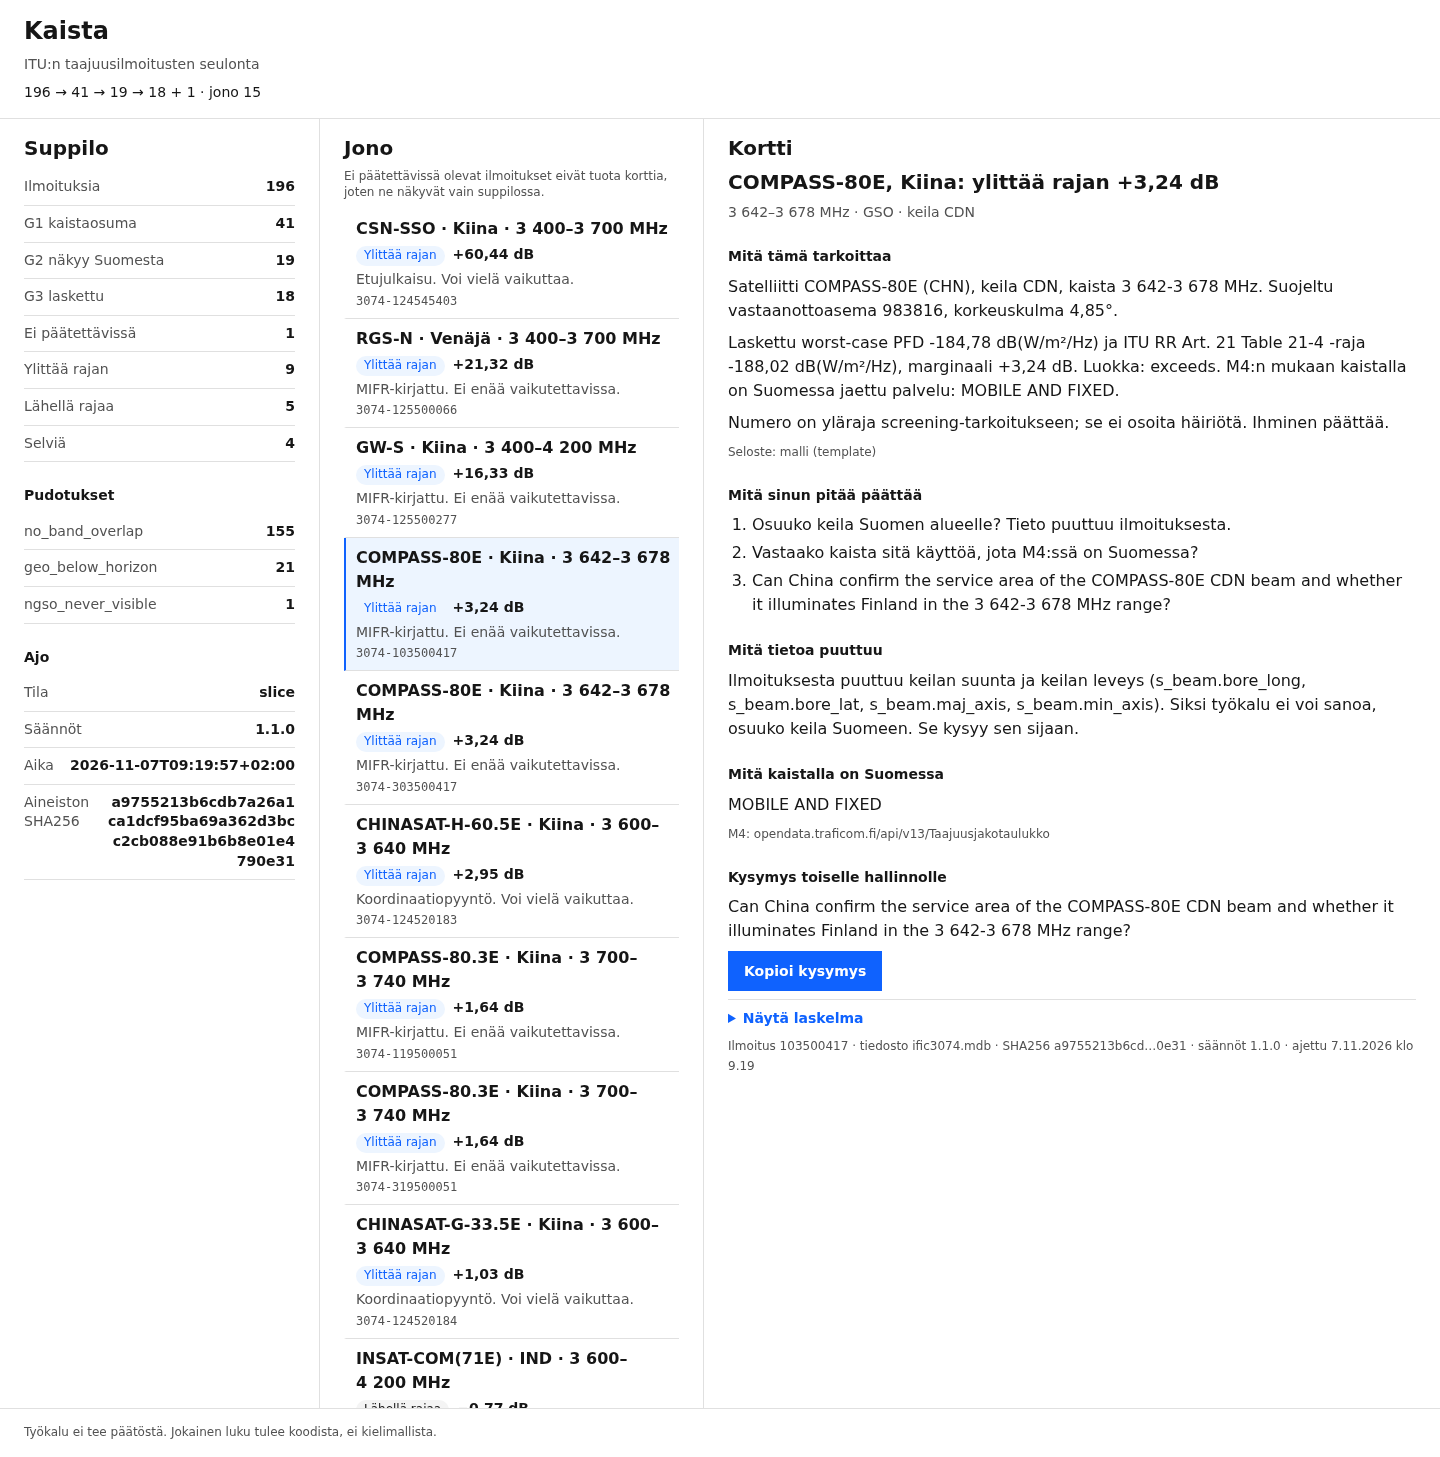
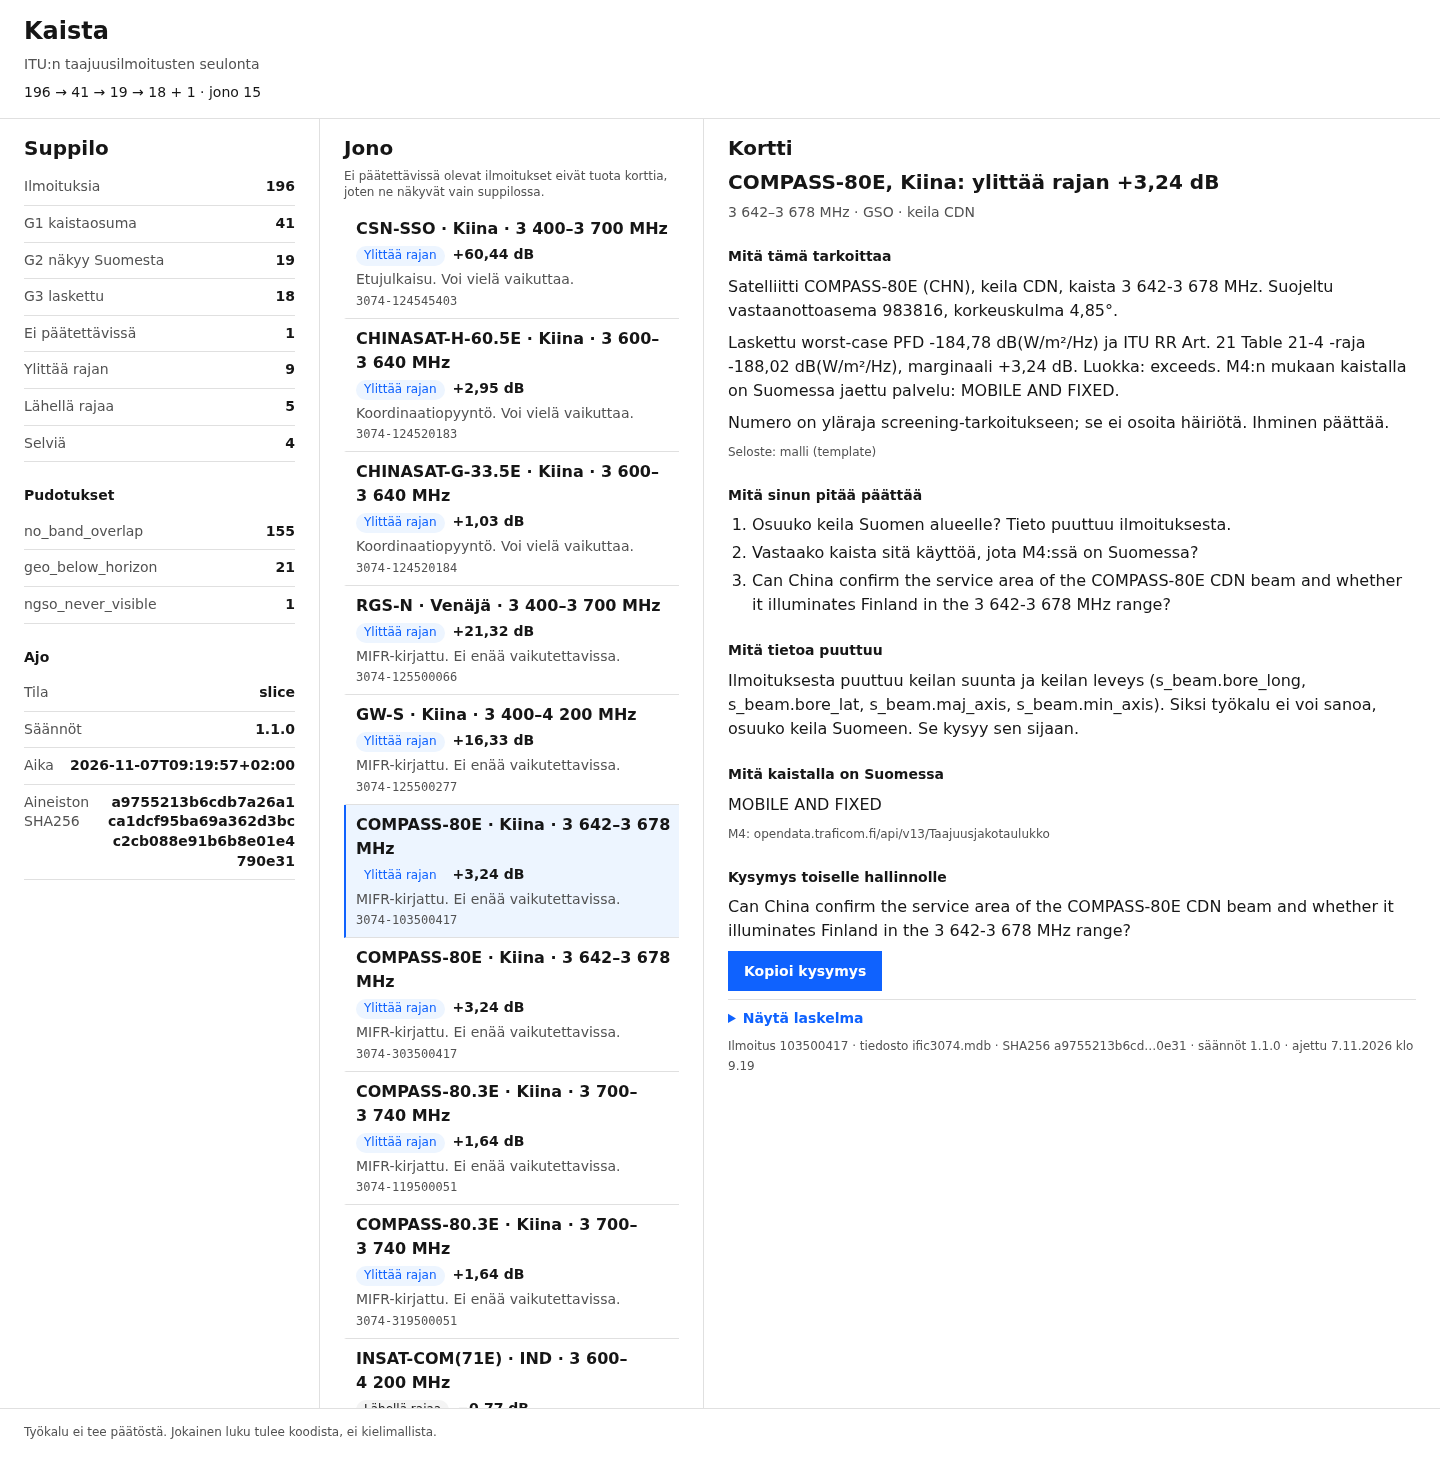
UI: the queue lists the cases a human looks at, in stage order
renderQueue dropped the clear cases and sorted the rest the way
scripts/notify.py already does: class, then stage (a stage another
administration can still influence before one recorded in the MIFR),
then margin, then case id. The queue now matches out/queue.md, 14 rows
under a heading that still reads jono 15.

diff --git a/app/static/index.html b/app/static/index.html
@@ -282,14 +282,45 @@ function renderFunnel(data) {
   );
 }
 
+// The queue order mirrors scripts/notify.py: class, then stage (a stage another
+// administration can still influence before one already recorded in the MIFR),
+// then margin descending, then case id.
+const QUEUE_CLASS = ["exceeds", "near", "cannot_decide", "clear"];
+const QUEUE_STAGE = { "No. 9.1": 0, "No. 9.6": 0, "No. 11.2": 1, "Resolution 49": 2 };
+const QUEUE_STAGE_UNKNOWN = 9;
+
+function queueKey(item) {
+  const klass = QUEUE_CLASS.indexOf(item["class"]);
+  const stage = item.regulatory_stage && item.regulatory_stage.provision;
+  const margin = Number(item.calculation && item.calculation.margin_db);
+  return [
+    klass < 0 ? QUEUE_CLASS.length : klass,
+    QUEUE_STAGE[stage] === undefined ? QUEUE_STAGE_UNKNOWN : QUEUE_STAGE[stage],
+    -(isFinite(margin) ? margin : 0),
+    item.case_id,
+  ];
+}
+
+function compareQueue(a, b) {
+  const ka = queueKey(a);
+  const kb = queueKey(b);
+  for (let i = 0; i < ka.length; i += 1) {
+    if (ka[i] < kb[i]) return -1;
+    if (ka[i] > kb[i]) return 1;
+  }
+  return 0;
+}
+
 function renderQueue(items) {
   const ul = document.getElementById("queue");
-  if (!items.length) {
+  // Clear cases are not the queue: the queue is the cases a human looks at.
+  const queue = items.filter((item) => item["class"] !== "clear").sort(compareQueue);
+  if (!queue.length) {
     ul.replaceChildren(el("li", "Jono on tyhjä."));
     return;
   }
   ul.replaceChildren(
-    ...items.map((item) => {
+    ...queue.map((item) => {
       const li = el("li");
       const button = el("button", null, "queue-item");
       button.type = "button";
